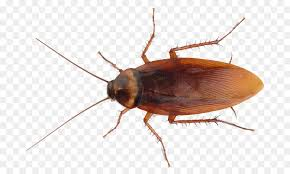
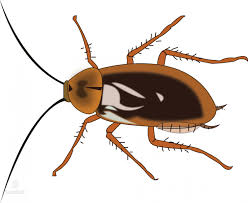
ganti nyamuk done

diff --git a/src/components/Race.vue b/src/components/Race.vue
@@ -90,36 +90,10 @@
         src="https://purepng.com/public/uploads/large/purepng.com-cloudnaturecloudsmoke-9615246757368kjiz.png"
         style="width:100px"
       />
-      <button
-        class="btn btn-success"
-        id="myidb"
-        ref="myidb"
-        style="width: 100px; 
-        height:100px
-        background-image: url(../assets/nyamuk1.jpg)"
-        v-on:click.prevent="addScore(10)"
-      >Nyamuk</button>
-      <button
-        class="btn btn-success"
-        id="myidc"
-        ref="myidc"
-        style="width: 100px; height:100px"
-        v-on:click.prevent="addScore(1)"
-      >Nyamuk</button>
-      <button
-        class="btn btn-success"
-        id="myidd"
-        ref="myidd"
-        style="width: 100px; height:100px"
-        v-on:click.prevent="addScore(1)"
-      >Nyamuk</button>
-      <button
-        class="btn btn-success"
-        id="myide"
-        ref="myide"
-        style="width: 100px; height:100px"
-        v-on:click.prevent="addScore(1)"
-      >Nyamuk</button>
+      <button class="nyamuk4" id="myidb" ref="myidb" v-on:click.prevent="addScore(10)"></button>
+      <button class="nyamuk1" id="myidc" ref="myidc" v-on:click.prevent="addScore(1)"></button>
+      <button class="nyamuk2" id="myidd" ref="myidd" v-on:click.prevent="addScore(1)"></button>
+      <button class="nyamuk3" id="myide" ref="myide" v-on:click.prevent="addScore(1)"></button>
       <a v-if="!started" v-on:click.prevent="getStarted">Get Started</a>
     </div>
   </div>
@@ -455,5 +429,34 @@ export default {
   font-size: 18px;
   padding: 2px;
   border: none;
+}
+.nyamuk1 {
+  border: none;
+  width: 70px;
+  height: 70px;
+  background-image: url("../assets/muka.png");
+  background-size: cover;
+}
+.nyamuk2 {
+  border: none;
+  width: 70px;
+  height: 70px;
+  background-image: url("../assets/alien.png");
+  background-size: cover;
+}
+.nyamuk3 {
+  border: none;
+  width: 70px;
+  height: 70px;
+  background-image: url("../assets/taik.jpeg");
+  background-size: cover;
+}
+.nyamuk4 {
+  border: none;
+  width: 70px;
+  height: 70px;
+  background-image: url("../assets/kecoak1.jpeg");
+  background-size: cover;
+  background-position-x: center;
 }
 </style>
